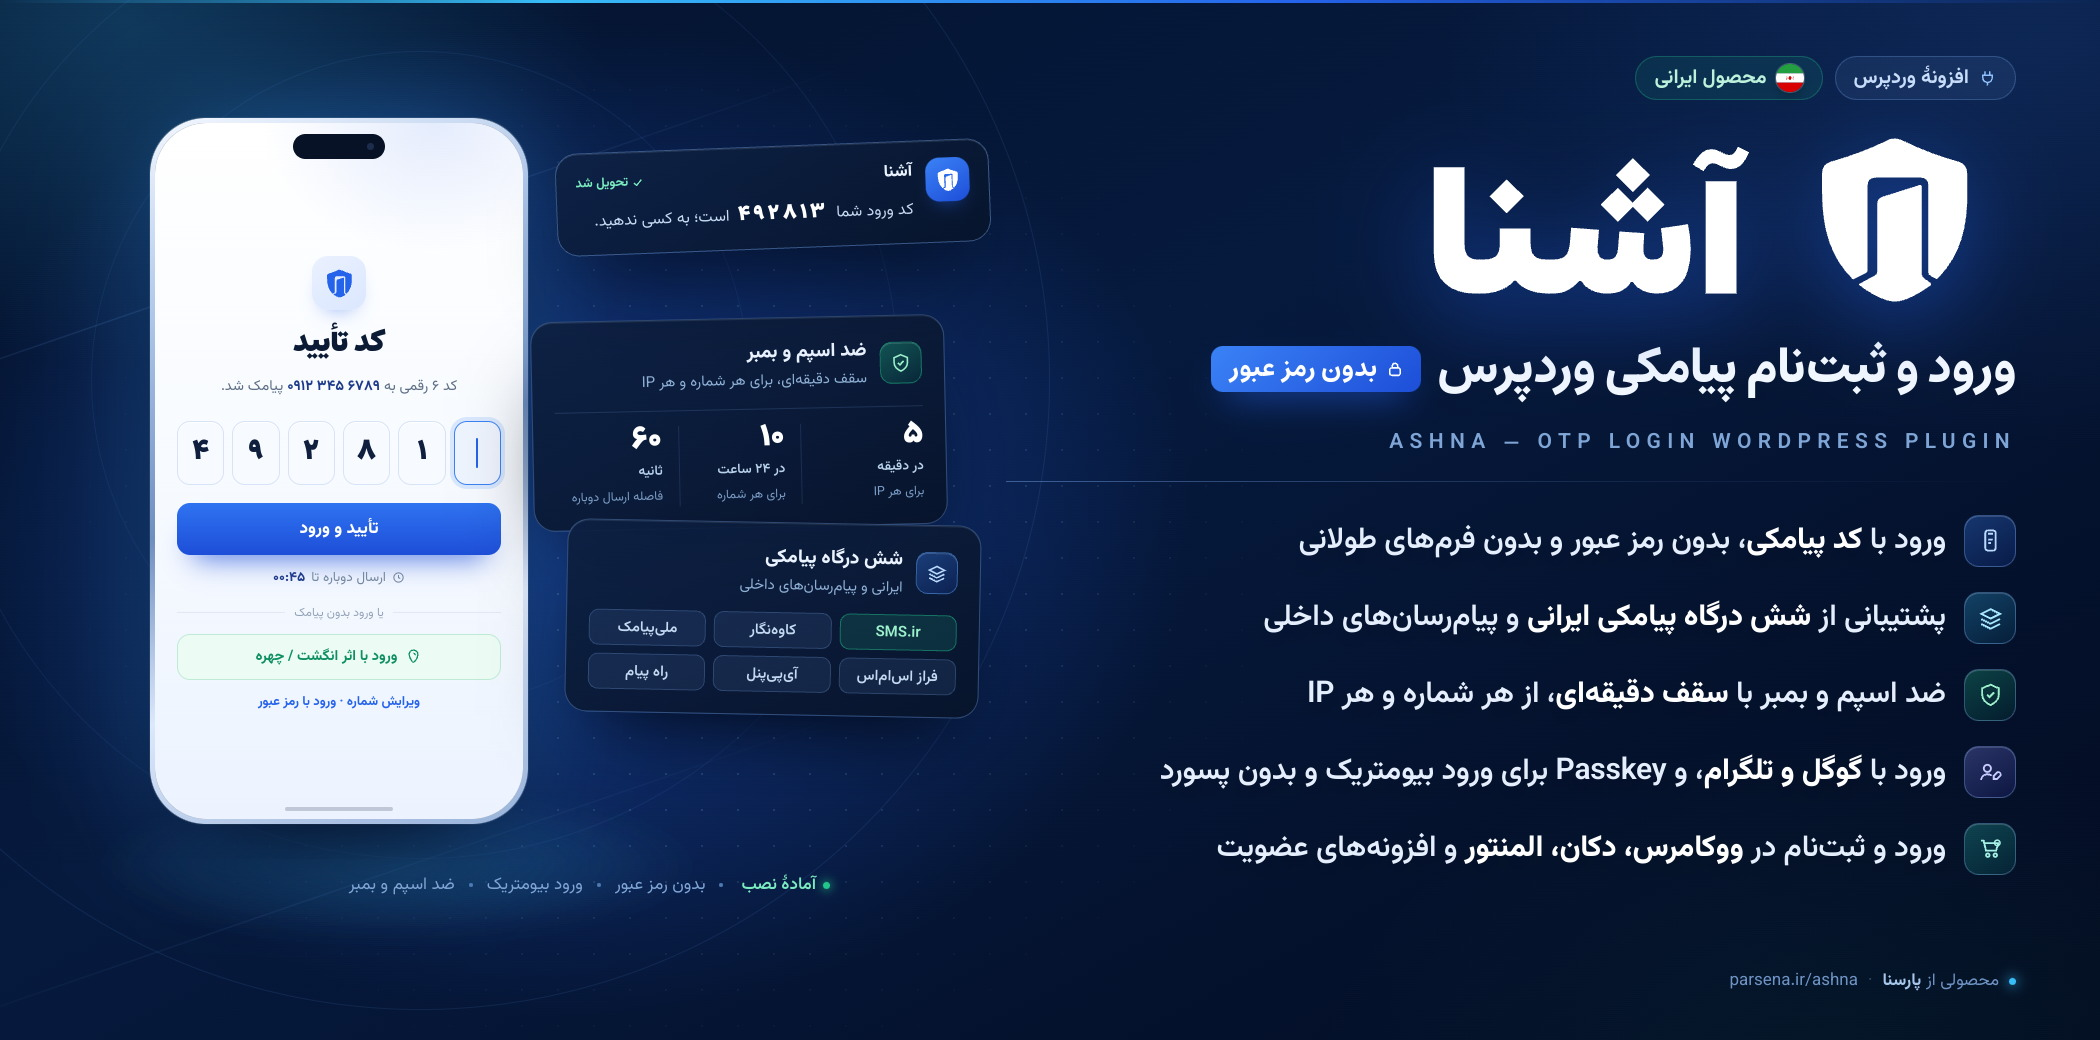
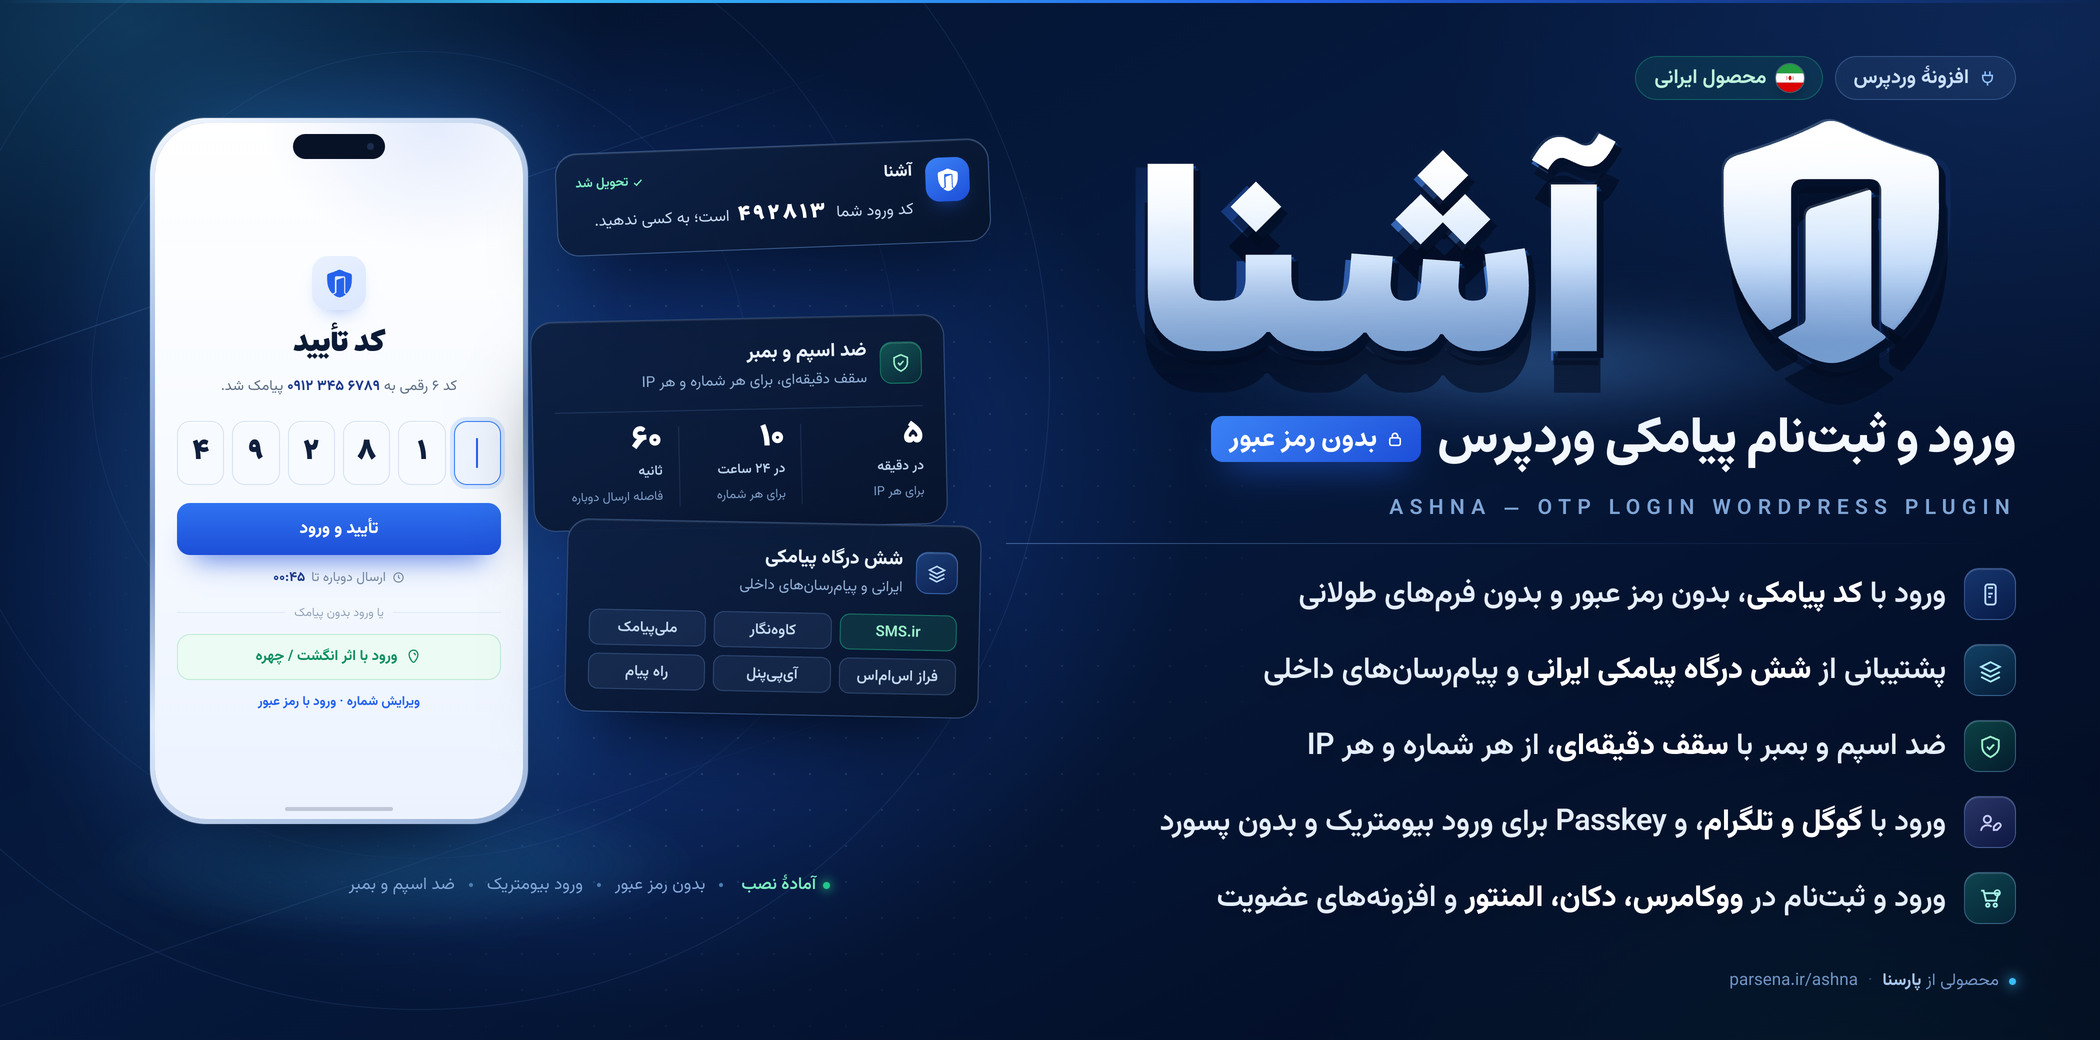
cover: enlarge the wordmark and give it a real 3D finish
The owner asked for a bigger, longer title with a convincing shadow
effect. The flat <img> logo is now a masked stack: floor light, ambient
blue halo, long cast shadow plus contact shadow, a three-step extrusion
in deepening navy, a polished metal face (white crown to icy blue foot),
lower bounce light, a specular sweep and a thin rim light. Desktop and
mobile share the treatment; the mobile mark also grew.

check.mjs now ignores the wordmark stack, whose translucent layers are
meant to bleed past the box.

Changed region(s): [[0.5262, 0.1231, 0.9595, 0.8923]]

diff --git a/product-images/cover/index.html b/product-images/cover/index.html
@@ -173,10 +173,40 @@
     box-shadow:0 0 0 1px rgba(255,255,255,.25), 0 6px 14px -6px rgba(0,0,0,.7)}
   .flag svg{display:block;width:100%;height:100%}
 
-  .brand{margin-top:22px;height:196px;display:flex;align-items:center}
-  .brand img{height:182px;width:auto;filter:drop-shadow(0 20px 44px rgba(37,99,235,.55))}
+  /* ---- wordmark: enlarged, gradient face, layered depth shadow ---- */
+  .brand{margin-top:0;height:284px;display:flex;align-items:center;position:relative;isolation:isolate}
+  .wordmark{position:relative;height:270px;width:932px;flex:none}
+  .wordmark span{position:absolute;inset:0;
+    -webkit-mask:url('../infographic/img/ashna-logo-white.svg') center/100% 100% no-repeat;
+    mask:url('../infographic/img/ashna-logo-white.svg') center/100% 100% no-repeat}
+  /* ambient blue halo hugging the letterforms */
+  .w-glow{background:radial-gradient(58% 112% at 48% 54%,rgba(96,163,255,.98),rgba(46,107,230,.46) 56%,rgba(46,107,230,0) 84%);
+    filter:blur(34px);transform:translateY(6px) scale(1.03);opacity:.9;z-index:-1}
+  /* one long soft cast shadow, then a three-band extrusion = clean 3D, no banding */
+  .w-shadow{background:#01091C;filter:blur(44px);transform:translate(3px,40px) scale(1.015);opacity:.72}
+  .w-shadow2{background:#01091C;filter:blur(14px);transform:translate(2px,14px);opacity:.5}
+  .w-depth-1{background:#184D93;transform:translate(2.4px,2.4px)}
+  .w-depth-2{background:#0B2A57;transform:translate(4.6px,4.6px)}
+  .w-depth-3{background:#03102A;transform:translate(6.8px,6.8px)}
+  /* face: polished metal — white crown, icy mid, deep blue foot */
+  .w-face{background:linear-gradient(178deg,#FFFFFF 0%,#FFFFFF 20%,#F4F9FF 34%,#D6E7FC 52%,#A8C8F2 70%,#7FA8E3 86%,#6E97D8 100%)}
+  /* specular sweep across the upper third + soft lower bounce light */
+  .w-gloss{background:linear-gradient(177deg,rgba(255,255,255,1) 0%,rgba(255,255,255,.72) 16%,rgba(255,255,255,.18) 30%,rgba(255,255,255,0) 40%);
+    mix-blend-mode:screen;opacity:1}
+  .w-bounce{background:linear-gradient(0deg,rgba(122,178,247,.85) 0%,rgba(122,178,247,.28) 14%,rgba(122,178,247,0) 30%);
+    mix-blend-mode:screen;opacity:.55}
+  /* thin bright rim on the upper-left edges */
+  .w-rim{background:linear-gradient(203deg,rgba(196,230,255,1) 0%,rgba(120,180,250,0) 50%);
+    transform:translate(-2px,-2px);opacity:.34;mix-blend-mode:screen}
+  /* inner shade so the lower half does not wash out against the haze */
+  .w-shade{background:linear-gradient(0deg,rgba(10,34,78,.34) 0%,rgba(10,34,78,0) 42%);opacity:.9}
+  /* lit floor under the wordmark */
+  /* the generic `.wordmark span` rule sets inset/mask, so the pool must opt out explicitly */
+  .wordmark .w-pool{inset:auto;top:auto;left:auto;bottom:-62px;right:40px;width:880px;height:150px;
+    -webkit-mask:none;mask:none;border-radius:50%;z-index:-1;
+    background:radial-gradient(closest-side,rgba(96,168,255,.42),rgba(96,168,255,0) 76%);filter:blur(24px)}
 
-  .subline{display:flex;align-items:center;gap:16px;margin-top:12px}
+  .subline{display:flex;align-items:center;gap:16px;margin-top:16px}
   .subline h1{font-family:'Estedad';font-weight:700;font-size:50px;letter-spacing:-1px;color:#F4F9FF;
     text-shadow:0 12px 30px rgba(3,16,42,.6)}
   .nopass{display:inline-flex;align-items:center;gap:8px;height:46px;padding:0 17px;border-radius:12px;
@@ -185,14 +215,14 @@
     box-shadow:0 18px 34px -16px rgba(37,99,235,.95)}
   .nopass svg{width:18px;height:18px}
 
-  .english{margin-top:18px;font-size:21px;letter-spacing:.30em;color:#7FA5D6;font-weight:600;
+  .english{margin-top:14px;font-size:21px;letter-spacing:.30em;color:#7FA5D6;font-weight:600;
     direction:ltr;text-align:right;white-space:nowrap}
 
-  .rule{height:1px;margin-top:22px;
+  .rule{height:1px;margin-top:18px;
     background:linear-gradient(90deg,rgba(130,180,250,.42),rgba(130,180,250,.10) 62%,rgba(130,180,250,0))}
 
-  .features{margin-top:20px;display:flex;flex-direction:column}
-  .feat{display:flex;align-items:center;gap:18px;height:77px}
+  .features{margin-top:12px;display:flex;flex-direction:column}
+  .feat{display:flex;align-items:center;gap:18px;height:76px}
   .fico{width:52px;height:52px;border-radius:15px;flex:none;display:grid;place-items:center;
     border:1px solid rgba(140,185,250,.32);
     box-shadow:inset 0 1px 0 rgba(255,255,255,.15), 0 16px 30px -22px rgba(2,10,28,.9)}
@@ -331,8 +361,21 @@
       </span>
     </div>
 
-    <div class="brand">
-      <img src="../infographic/img/ashna-logo-white.svg" alt="آشنا">
+    <div class="brand" aria-label="آشنا">
+      <div class="wordmark" role="img" aria-label="آشنا">
+        <span class="w-pool"></span>
+        <span class="w-glow"></span>
+        <span class="w-shadow"></span>
+        <span class="w-shadow2"></span>
+        <span class="w-depth-1"></span>
+        <span class="w-depth-2"></span>
+        <span class="w-depth-3"></span>
+        <span class="w-face"></span>
+        <span class="w-shade"></span>
+        <span class="w-bounce"></span>
+        <span class="w-gloss"></span>
+        <span class="w-rim"></span>
+      </div>
     </div>
 
     <div class="subline">

diff --git a/product-images/cover/mobile.html b/product-images/cover/mobile.html
@@ -55,7 +55,29 @@
   .flag i:nth-child(2){background:#fff}
   .flag i:nth-child(3){background:#DA0000}
 
-  .wordmark{width:460px;display:block;margin-right:-4px;filter:drop-shadow(0 18px 34px rgba(37,99,235,.42))}
+  /* wordmark enlarged with the same gradient face and stepped extrusion as desktop */
+  .wm-wrap{position:relative;width:592px;height:174px;margin:0 0 8px -6px}
+  .wordmark{position:absolute;inset:0;width:100%;height:100%}
+  .wordmark span{position:absolute;inset:0;
+    -webkit-mask:url('../infographic/img/ashna-logo-white.svg') center/100% 100% no-repeat;
+    mask:url('../infographic/img/ashna-logo-white.svg') center/100% 100% no-repeat}
+  .w-glow{background:radial-gradient(56% 108% at 48% 52%,rgba(80,150,255,.9),rgba(46,107,230,.4) 56%,rgba(46,107,230,0) 82%);
+    filter:blur(20px);opacity:.8;z-index:-1}
+  .w-shadow{background:#010A1E;filter:blur(19px);transform:translate(3px,20px) scale(1.012);opacity:.7}
+  .w-shadow2{background:#020C22;filter:blur(8px);transform:translate(2px,9px) scale(1.004);opacity:.6}
+  .w-depth-1{background:#1B4A8E;transform:translate(2.6px,6px)}
+  .w-depth-2{background:#123C77;transform:translate(3.1px,5px)}
+  .w-depth-3{background:#0C2C5C;transform:translate(3.6px,4px)}
+  .w-depth-4{background:#071F44;transform:translate(4.1px,3px)}
+  .w-depth-5{background:#03142E;transform:translate(4.6px,2px)}
+  .w-depth-6{background:#010B1C;transform:translate(5.1px,1px)}
+  .w-depth-7{background:#01060F;transform:translate(5.6px,0)}
+  .w-face{background:linear-gradient(179deg,#FFFFFF 0%,#FFFFFF 24%,#EEF5FF 42%,#CFE2FB 60%,#A2C4F1 79%,#8FB6EC 100%)}
+  .w-shade{background:linear-gradient(0deg,rgba(12,38,86,.36),rgba(12,38,86,0) 46%)}
+  .w-gloss{background:linear-gradient(184deg,rgba(255,255,255,.95),rgba(255,255,255,.5) 22%,rgba(255,255,255,0) 42%);
+    mix-blend-mode:screen;opacity:.92}
+  .w-rim{background:linear-gradient(203deg,rgba(186,224,255,.95),rgba(120,180,250,0) 52%);
+    transform:translate(-1px,-1px);opacity:.4;mix-blend-mode:screen}
 
   .subbar{margin-top:20px;display:inline-flex;align-items:center;gap:14px;padding:11px 22px 13px;border-radius:14px;
     background:linear-gradient(100deg,#1D4ED8 0%,#2563EB 48%,#3B82F6 100%);
@@ -189,7 +211,13 @@
       <div class="pill iran"><span class="flag"><i></i><i></i><i></i></span>محصول ایرانی</div>
     </div>
 
-    <img class="wordmark" src="../infographic/img/ashna-logo-white.svg" alt="آشنا">
+    <div class="wm-wrap" aria-label="آشنا">
+      <div class="wordmark" role="img" aria-label="آشنا">
+        <span class="w-glow"></span><span class="w-shadow"></span><span class="w-shadow2"></span>
+        <span class="w-depth-1"></span><span class="w-depth-2"></span><span class="w-depth-3"></span><span class="w-depth-4"></span><span class="w-depth-5"></span><span class="w-depth-6"></span><span class="w-depth-7"></span>
+        <span class="w-face"></span><span class="w-shade"></span><span class="w-gloss"></span><span class="w-rim"></span>
+      </div>
+    </div>
 
     <div class="subbar">
       <b>ورود و ثبتنام پیامکی</b>
